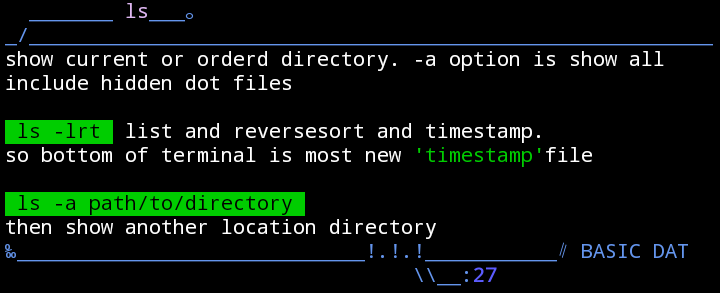
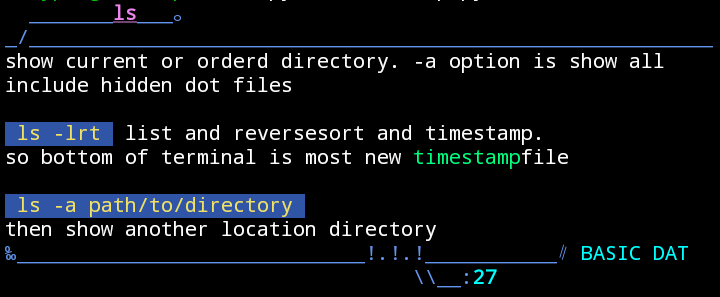
minor: add cyber style and image

diff --git a/uhelp/uhelp.py b/uhelp/uhelp.py
@@ -311,28 +311,28 @@ def main():
             description="cyber mode theme",
             tags=["cyberterm"],
             styles={
-                "title": "green",
-                "usage": "green",
+                "title": "bold #EC85ED underline",
+                "usage": "#EF4868",
                 "strong": "bold red",
-                "info": "dim cyan",
+                "info": "#00FF7F",
                 "warning": "bold magenta",
                 "danger": "bold red",
                 "info2": Style(color="#22863a", bold=True),
                 "foot": "#DDDCD3",
-                "codez": "#000000 on green",
+                "codez": "#F1E266 on #3155A6",
                 "markdown.paragraph": Style(),
                 "markdown.text": Style(),
                 "markdown.em": Style(italic=True),
                 "markdown.emph": Style(italic=True),  # For commonmark backwards compatibility
                 "markdown.strong": Style(bold=True),
-                "markdown.code": "#000000 on green",
-                "markdown.code_block": "#000000 on green",
-                "markdown.block_quote": Style(color="green"),
-                "markdown.list": Style(color="green"),
+                "markdown.code": "#FFFFFF on blue",
+                "markdown.code_block": "#FFFFFF on blue",
+                "markdown.block_quote": Style(color="blue"),
+                "markdown.list": Style(color="blue"),
                 "markdown.item": Style(),
-                "markdown.item.bullet": Style(color="#A0FA20", bold=True),
+                "markdown.item.bullet": Style(color="blue", bold=True),
                 "markdown.item.number": Style(color="#A0FA20", bold=True),
-                "markdown.hr": Style(color="green"),
+                "markdown.hr": Style(color="blue"),
                 "markdown.h1.border": Style(),
                 "markdown.h1": Style(bold=True),
                 "markdown.h2": Style(bold=True, underline=True),
@@ -341,8 +341,8 @@ def main():
                 "markdown.h5": Style(underline=True),
                 "markdown.h6": Style(italic=True),
                 "markdown.h7": Style(italic=True, dim=True),
-                "markdown.link": Style(color="bright_green"),
-                "markdown.link_url": Style(color="green", underline=True),
+                "markdown.link": Style(color="bright_blue"),
+                "markdown.link_url": Style(color="blue", underline=True),
 
             },
         ),
@@ -833,7 +833,7 @@ def main():
         if multiple list then them strip to oneline string here
         :param str arg1: command name or date time
         :param str arg2: usage or memo
-        :param str arg3: 0 = usr hit / 1 = bas hit / 2 = non / 3= tldr
+        :param int arg3: 0 = usr hit / 1 = bas hit / 2 = non / 3= tldr
         """
 
         adoc = arg1
@@ -1014,7 +1014,7 @@ def main():
             case 'cyber':  # here not hardcort bas/usr this is good and not confliction when irregular usage
                 logging.debug("output format is cyber")
 
-                dtheme = theme_manager.get("retroterminal")
+                dtheme = theme_manager.get("cyber")
                 console = Console(theme=dtheme)
 
                 # To optimize borders on the screen
@@ -1045,11 +1045,13 @@ def main():
                     ftdb = "TLDR DAT"
                     ftln = "P.A.G.ES"
 
-                console.print(f"[blue]  _______ [#DEB6F1]{adoc}[/#DEB6F1]___｡[/]")
+
+
+                console.print(f"[blue]  _______[/][title]{adoc}[/][blue]___｡[/]")
                 console.print(f"[blue]_/{adjbd(bdmax-2, '_')}[/]")
                 console.print(bdoc)
-                console.print(f"[blue]‰{adjbd(bdmax-30, '_')}!.!.!___________∥ {ftdb}[/]")
-                console.print(f"[blue]{adjbd(bdmax-25, ' ')}\\\\__:{ftln}[/]")
+                console.print(f"[blue]‰{adjbd(bdmax-30, '_')}!.!.!___________∥ [#00FFFF]{ftdb}[/#00FFFF][/]")
+                console.print(f"[blue]{adjbd(bdmax-25, ' ')}\\\\__:[#00FFFF]{ftln}[/#00FFFF][/]")
 
                 if whit == 0:
                     console.print(f"your database - total:{len(usr)}", ".", justify="right", style='foot', highlight=False)
